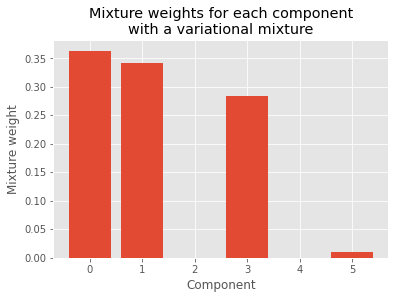
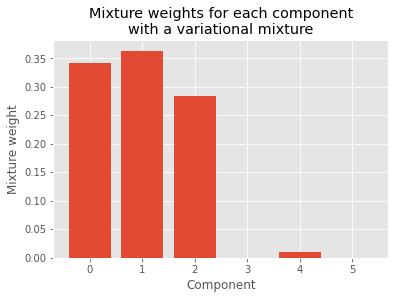
Updated package to use KMeans initialization provided by sklearn's kmeans clustering by default, since this provides improved initialization.

Changed region(s): [[0.4253, 0.301, 0.9418, 0.8729], [0.1519, 0.1505, 0.4253, 0.2107]]

diff --git a/studenttmixture/em_student_mixture.py b/studenttmixture/em_student_mixture.py
@@ -8,7 +8,7 @@ from scipy.linalg import solve_triangular
 from scipy.special import gammaln, logsumexp, digamma, polygamma
 from scipy.optimize import newton
 from squaredMahaDistance import squaredMahaDistance
-
+from sklearn.cluster import KMeans
 
 
 #################################################################################
@@ -57,7 +57,7 @@ class EMStudentMixture():
     def __init__(self, n_components = 2, tol=1e-5,
             reg_covar=1e-06, max_iter=1000, n_init=1,
             df = 4.0, fixed_df = True, random_state=123, verbose=False,
-            init_type = "k++"):
+            init_type = "kmeans"):
         self.check_user_params(n_components, tol, reg_covar, max_iter, n_init, df, random_state,
                 init_type)
         #General model parameters specified by user.
@@ -463,13 +463,11 @@ class EMStudentMixture():
     #components, and df is set to the starting value. All initialized parameters are 
     #returned to caller.
     def initialize_params(self, X, random_seed, init_type):
-        #We set loc_ to starting values using the k++ algorithm. If the user
-        #selected kmeans as their preferred initialization, we then update and refine
-        #the loc_values generated by k++ using kmeans.
-        loc_ = self.kplusplus_initialization(X, random_seed)
         if init_type == "kmeans":
-            loc_ = self.kmeans_initialization(X, loc_)
-        
+            loc_ = self.kmeans_initialization(X, random_seed)
+        else:
+            loc_ = self.kplusplus_initialization(X, random_seed)
+
         mix_weights_ = np.empty(self.n_components)
         mix_weights_.fill(1/self.n_components)
 
@@ -518,36 +516,12 @@ class EMStudentMixture():
     #The second alternative for initializing loc_is kmeans clustering. It takes as
     #input the data X (NxD for N datapoints, D dimensions) and as a starting point
     #loc_ returned by self.kplusplus_initialization (KxD for K components, D dimensions).
-    #This is a simple initialization of Lloyd's algorithm for kmeans; by rolling our
-    #own, we avoid the need to include scikitlearn as a dependency. (I anticipate that
-    #k++ will be a more popular choice for initialization anyway, since clustering via
-    #kmeans then via re-clustering via a mixture model is redundant even if admittedly
-    #it is sometimes useful).
-    def kmeans_initialization(self, X, loc_):
-        clust_ids = np.empty_like(X)
-        X = X[:,:,np.newaxis]
-        loc_ = loc_.T[np.newaxis,:,:]
-        #Notice that we use the same parameter (self.max_iter) to govern the maximum
-        #number of iterations for overall model fitting and also for kmeans initialization
-        #AND df_ optimization. This seems better than having the user specify a separate
-        #maximum for each, although there might be some fairly rare use cases where that
-        #would be preferable.
-        prior_loc_ = np.copy(loc_)
-        for i in range(self.max_iter):
-            dist_array = np.sum((X - loc_)**2, axis=1)
-            clust_ids = np.argmax(dist_array, axis=1)
-            loc_ = [np.mean(np.take(X, clust_ids == i, axis=0), axis=0).flatten() for
-                    i in range(self.n_components)]
-            loc_ = np.stack(loc_, axis=1)[np.newaxis,:,:]
-            #We use a hard-coded tol of 1e-4 for this procedure, which is fairly generous
-            #and should allow fast convergence. We just need an approximate starting point
-            #since the mixture fit should refine this substantially.
-            loc_shift = np.linalg.norm(loc_ - prior_loc_, axis=1)
-            if np.max(loc_shift) < 1e-3:
-                break
-            prior_loc_ = np.copy(loc_)
-        return np.ascontiguousarray(np.squeeze(loc_, axis=0).T)
-
+    #Starting with version 0.0.2.2, we are using sklearn's KMeans for clustering --
+    #it's simpler than rolling our own and theirs performs very well.
+    def kmeans_initialization(self, X, random_state):
+        km = KMeans(n_clusters = self.n_components, n_init=3,
+                random_state = random_state).fit(X)
+        return km.cluster_centers_
 
 
     '''The remaining functions are called for a fitted model. Each of the functions

diff --git a/studenttmixture/parameter_bundle.py b/studenttmixture/parameter_bundle.py
@@ -1,5 +1,6 @@
 import numpy as np
 from scipy.linalg import solve_triangular
+from sklearn.cluster import KMeans
 
 #A helper class to store all the model parameters that are updated during training.
 #This includes expectations that are required to calculate the lower bound. Because
@@ -13,10 +14,10 @@ from scipy.linalg import solve_triangular
 #E in the following refers to expectation, i.e. E_log_mixweights = <log mix_weights>.
 class ParameterBundle():
 
-    def __init__(self, X, n_components, start_df, random_state):
+    def __init__(self, X, n_components, start_df, random_state, init_type):
         
         self.loc_, self.scale_, self.scale_inv_chole_, self.scale_chole_ = \
-                   self.initialize_params(X, n_components, random_state)
+                   self.initialize_params(X, n_components, random_state, init_type)
         self.df_ = np.full(shape=n_components, fill_value = start_df)
         #The following values are all expectations required for calculating the lower
         #bound and for parameter updates. They are all set to None because the
@@ -57,11 +58,11 @@ class ParameterBundle():
     #One very important note: For the variational model, unlike the EM model, we primarily
     #track the precision matrix (i.e. the inverse of the scale) for convenience. This
     #means that on initialization we obtain scale_inv rather than scale.
-    def initialize_params(self, X, n_components, random_seed):
-        #We set loc_ to starting values using the k++ algorithm. If the user
-        #selected kmeans as their preferred initialization, we then update and refine
-        #the loc_values generated by k++ using kmeans.
-        loc_ = self.kplusplus_initialization(X, random_seed, n_components)
+    def initialize_params(self, X, n_components, random_seed, init_type):
+        if init_type == "kmeans":
+            loc_ = self.kmeans_initialization(X, random_seed, n_components)
+        else:
+            loc_ = self.kplusplus_initialization(X, random_seed, n_components)
 
         #Set all scale matrices to a broad default -- the covariance of the data.
         default_scale_matrix = np.cov(X, rowvar=False)
@@ -103,3 +104,14 @@ class ParameterBundle():
             next_center_id = np.random.choice(distmat.shape[0], size=1, p=min_dist)
             loc_.append(X[next_center_id[0],:])
         return np.stack(loc_)
+
+    #The second alternative for initializing loc_is kmeans clustering. It takes as
+    #input the data X (NxD for N datapoints, D dimensions) and as a starting point
+    #loc_ returned by self.kplusplus_initialization (KxD for K components, D dimensions).
+    #Starting with version 0.0.2.2, we are using sklearn's KMeans for clustering --
+    #it's simpler than rolling our own and theirs performs very well.
+    def kmeans_initialization(self, X, random_state, n_components):
+        km = KMeans(n_clusters = n_components, n_init=3,
+                random_state = random_state).fit(X)
+        return km.cluster_centers_
+    

diff --git a/studenttmixture/variational_student_mixture.py b/studenttmixture/variational_student_mixture.py
@@ -9,7 +9,6 @@ from scipy.special import gamma, logsumexp, digamma, polygamma, loggamma
 from scipy.optimize import newton
 from .variational_hyperparams import VariationalMixHyperparams as Hyperparams
 from .parameter_bundle import ParameterBundle
-from copy import copy
 from squaredMahaDistance import squaredMahaDistance
 
 
@@ -90,7 +89,7 @@ class VariationalStudentMixture():
 
     def __init__(self, n_components = 2, tol=1e-5, max_iter=2000, n_init=1,
             df = 4.0, fixed_df = True, random_state=123, verbose=False,
-            init_type = "k++", scale_inv_prior=None, loc_prior=None,
+            init_type = "kmeans", scale_inv_prior=None, loc_prior=None,
             mean_cov_prior = 1e-2, weight_conc_prior=None, wishart_dof_prior = None,
             max_df = 100):
         self.max_df = max_df
@@ -309,7 +308,8 @@ class VariationalStudentMixture():
     #param_bundle   --  Object containing all fit parameters and all values needed to calculate
     #                   the lower bound.
     def fitting_restart(self, X, random_state, hyperparams):
-        params = ParameterBundle(X, self.n_components, self.start_df, random_state)
+        params = ParameterBundle(X, self.n_components, self.start_df, random_state,
+                        self.init_type)
         
         #The param_bundle has several expectations that need to be initialized before
         #the first fitting iteration -- this is done by the following function call.
@@ -328,7 +328,7 @@ class VariationalStudentMixture():
             if abs(change) < self.tol:
                 convergence = True
                 break
-            old_lower_bound = copy(new_lower_bound)
+            old_lower_bound = new_lower_bound
             if self.verbose:
                 #print(change)
                 print("Actual lower bound: %s" % new_lower_bound)

diff --git a/tests/unittest_variational_mix.py b/tests/unittest_variational_mix.py
@@ -36,7 +36,7 @@ class TestCoreProbabilityFunctions(unittest.TestCase):
         samples = np.vstack(samples)
         #We set a low value for tol to get the fit as "tight" as possible.
         VarMix = VariationalStudentMixture(fixed_df=False, random_state=123,
-                n_components=3, max_iter=4000, tol=1e-7, init_type="k++")
+                n_components=3, max_iter=4000, tol=1e-7)
         VarMix.fit(samples)
 
         #Retrieve the fit parameters and sort them so they can be compared to
@@ -159,7 +159,7 @@ class TestCoreProbabilityFunctions(unittest.TestCase):
         x = TrueVarMix.sample(num_samples=500, random_seed=123)
         
         FittedVarMix = VariationalStudentMixture(fixed_df=False, random_state=123,
-                n_components=1, max_iter=1500, tol=1e-7, init_type="k++")
+                n_components=1, max_iter=1500, tol=1e-7)
         FittedVarMix.fit(x)
 
         #Retrieve the fit parameters. They should be very close to the true ones.

diff --git a/tests/unittest_finite_mix.py b/tests/unittest_finite_mix.py
@@ -36,7 +36,7 @@ class TestCoreProbabilityFunctions(unittest.TestCase):
         samples = np.vstack(samples)
         #We set a low value for tol to get the fit as "tight" as possible.
         FiniteMix = EMStudentMixture(fixed_df=False, random_state=123,
-                n_components=3, max_iter=1500, tol=1e-7, init_type="k++")
+                n_components=3, max_iter=1500, tol=1e-7)
         FiniteMix.fit(samples)
 
         #Retrieve the fit parameters and sort them so they can be compared to
@@ -162,7 +162,7 @@ class TestCoreProbabilityFunctions(unittest.TestCase):
         x = TrueFiniteMix.sample(num_samples=500, random_seed=123)
         
         FittedFiniteMix = EMStudentMixture(fixed_df=False, random_state=123,
-                n_components=1, max_iter=1500, tol=1e-7, init_type="k++")
+                n_components=1, max_iter=1500, tol=1e-7)
         FittedFiniteMix.fit(x)
 
         #Retrieve the fit parameters. They should be very close to the true ones.

diff --git a/setup.py b/setup.py
@@ -19,6 +19,7 @@ setup(
         long_description_content_type="text/markdown",
         url="https://github.com/jlparki/mix_T",
         license="MIT",
-        install_requires=["numpy>=1.19", "scipy>=1.5.0"],
+        install_requires=["numpy>=1.19", "scipy>=1.5.0",
+            "scikit-learn>=0.20.0"],
         ext_modules = [sqMahaExtension]
 )

diff --git a/Documentation/Finite_Mixture_Docs.md b/Documentation/Finite_Mixture_Docs.md
@@ -118,7 +118,7 @@ plt.scatter(np.arange(2, 10), aics, color="red", label="AIC")
 plt.scatter(np.arange(2,10), bics, color="blue", label="BIC")
 plt.title("Information criteria vs number of clusters for toy dataset")
 plt.xlabel("Num clusters")
-#Consistent with expectations (in this case), we see an "elbow" for AIC and a clear minimum for BIC at
+#Consistent with expectations (in this case), we see an "elbow" for AIC and BIC at
 #3 clusters. The absolute value of these information criteria is not important, the location of the "elbow"
 #or minimum is. Note that BIC discriminates much more heavily against models with more parameters.
 ```

diff --git a/Documentation/Variational_Mixture_Docs.md b/Documentation/Variational_Mixture_Docs.md
@@ -143,7 +143,7 @@ plt.show()
 #and might enable us to get better results than we could with EM.
 
 student_model = VSM(n_components=6, tol=1e-5, weight_conc_prior = 1e-3, 
-        mean_cov_prior = 1, df=4, random_state = 123, fixed_df=True, n_init=3)
+        mean_cov_prior = 1, df=4, random_state = 1, fixed_df=True, n_init=3)
 
 student_model.fit(x)
 
